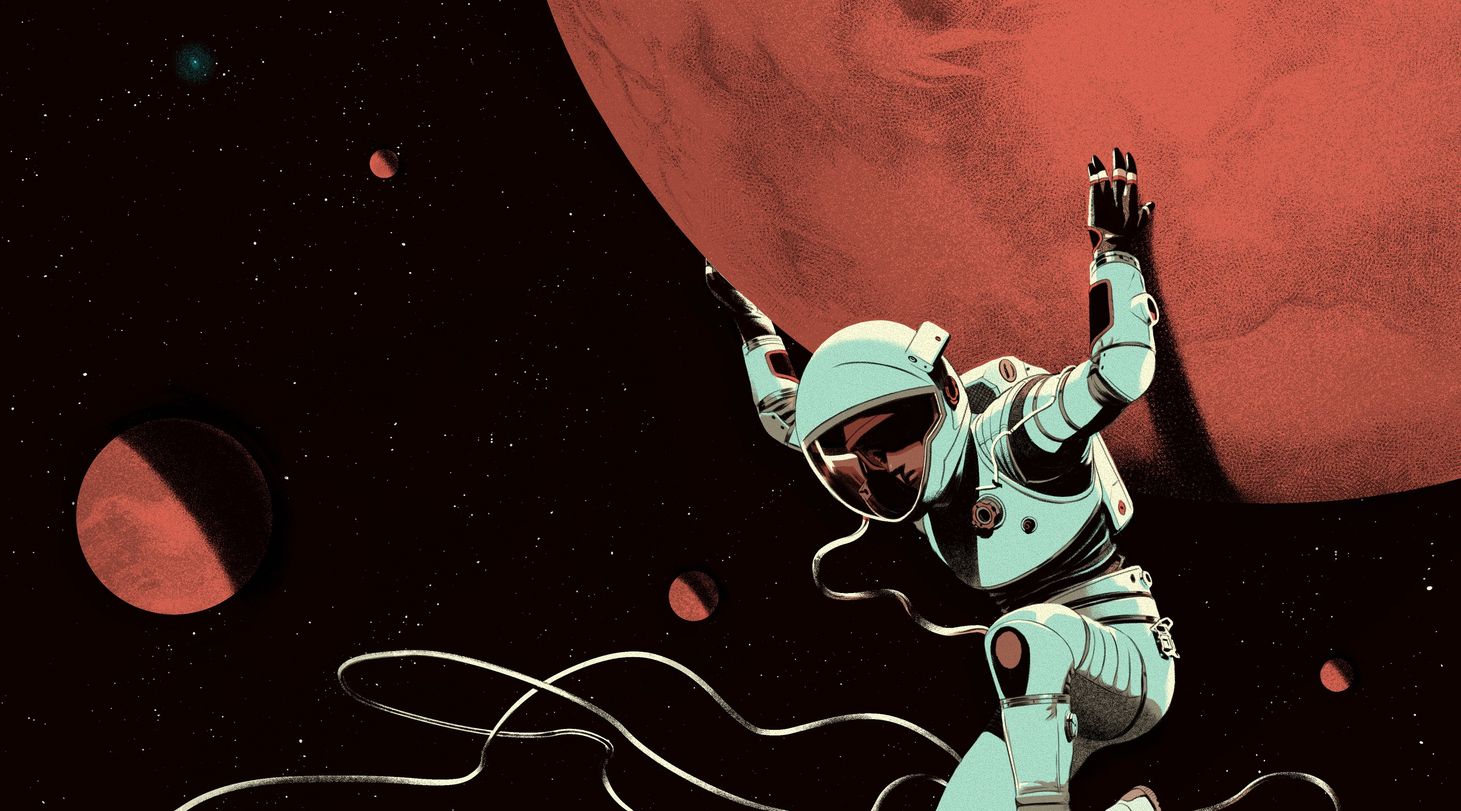
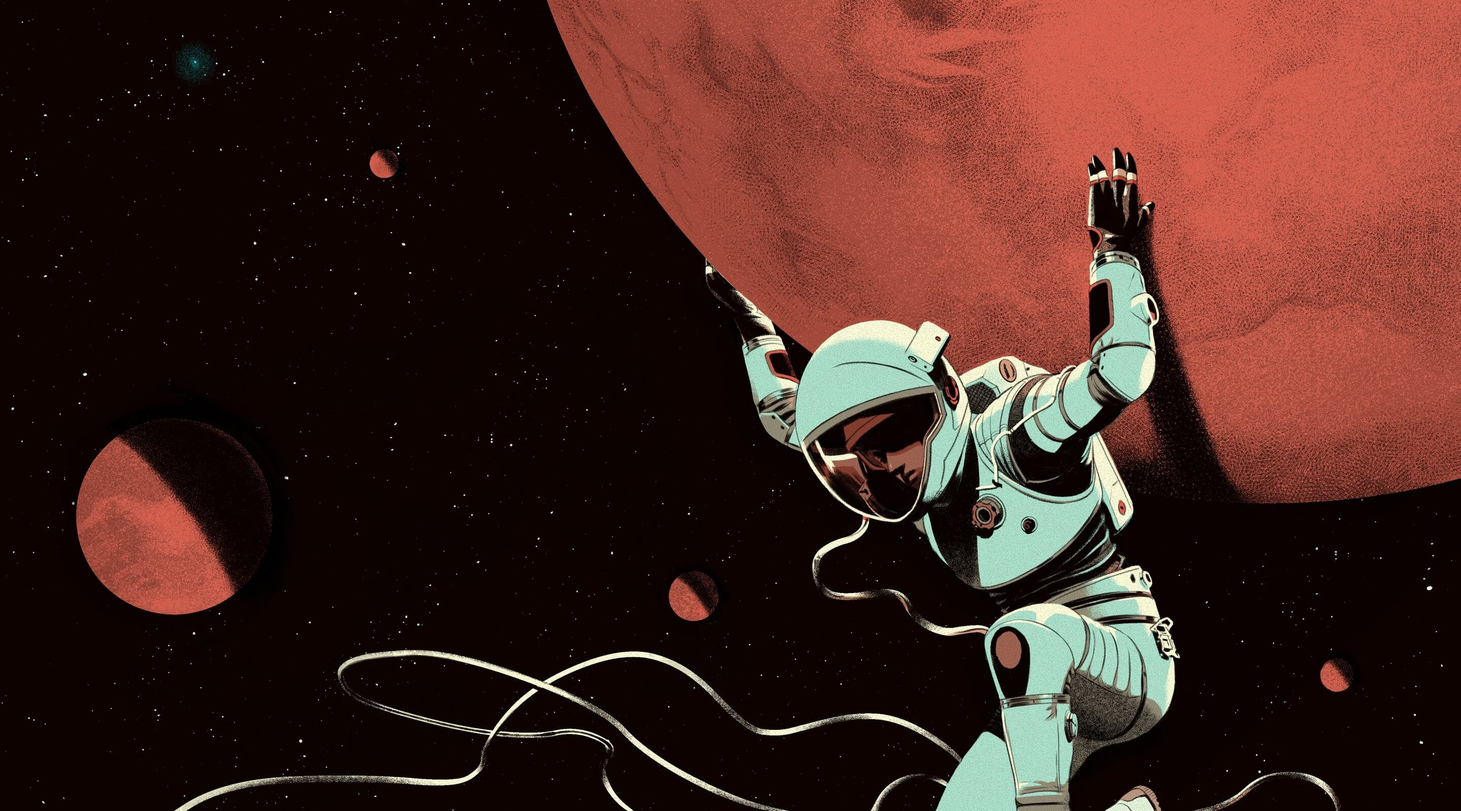
tinypng compress

diff --git a/routes/index.js b/routes/index.js
@@ -21,6 +21,10 @@ router.all('*', function(req, res, next) {
   next();
 });
 
+router.get('/hello', (req, res) => {
+  res.end('hello word hahahahahahahhahahha')
+})
+
 router.get('/api/article/list', Article.getList);  // 获取首页数据
 
 router.get('/api/article/detail', Article.getDetail); // 获取文章详情
